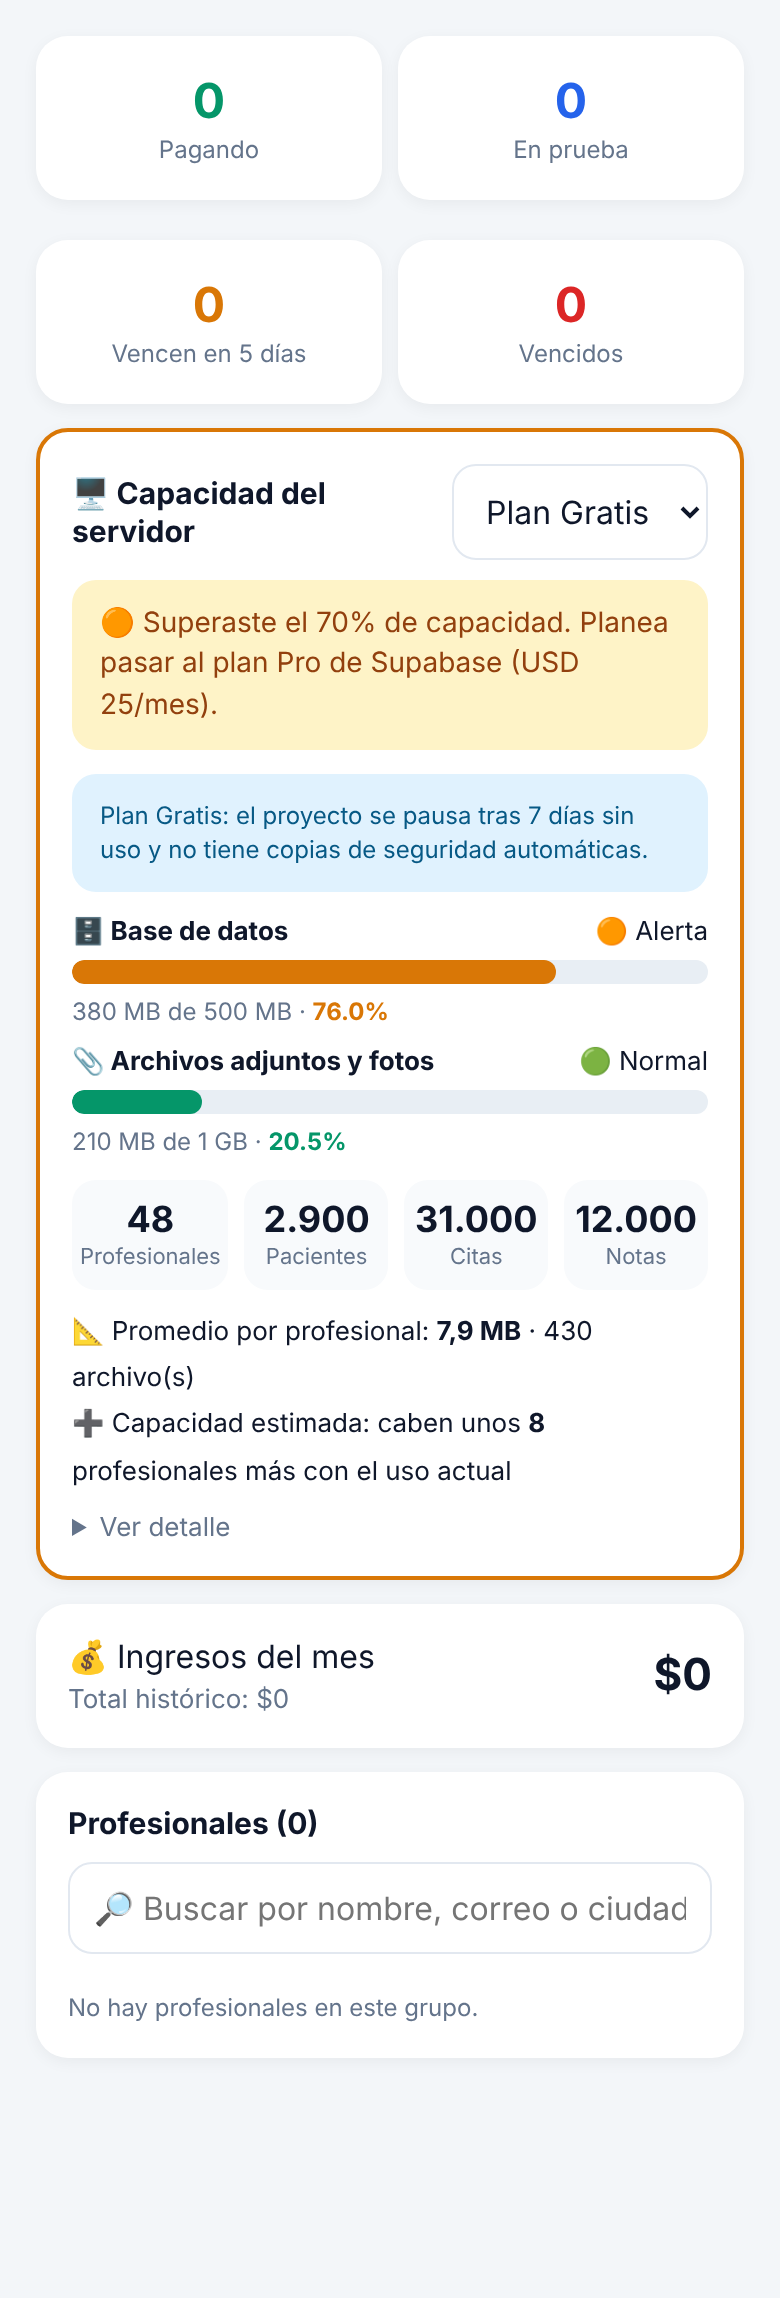
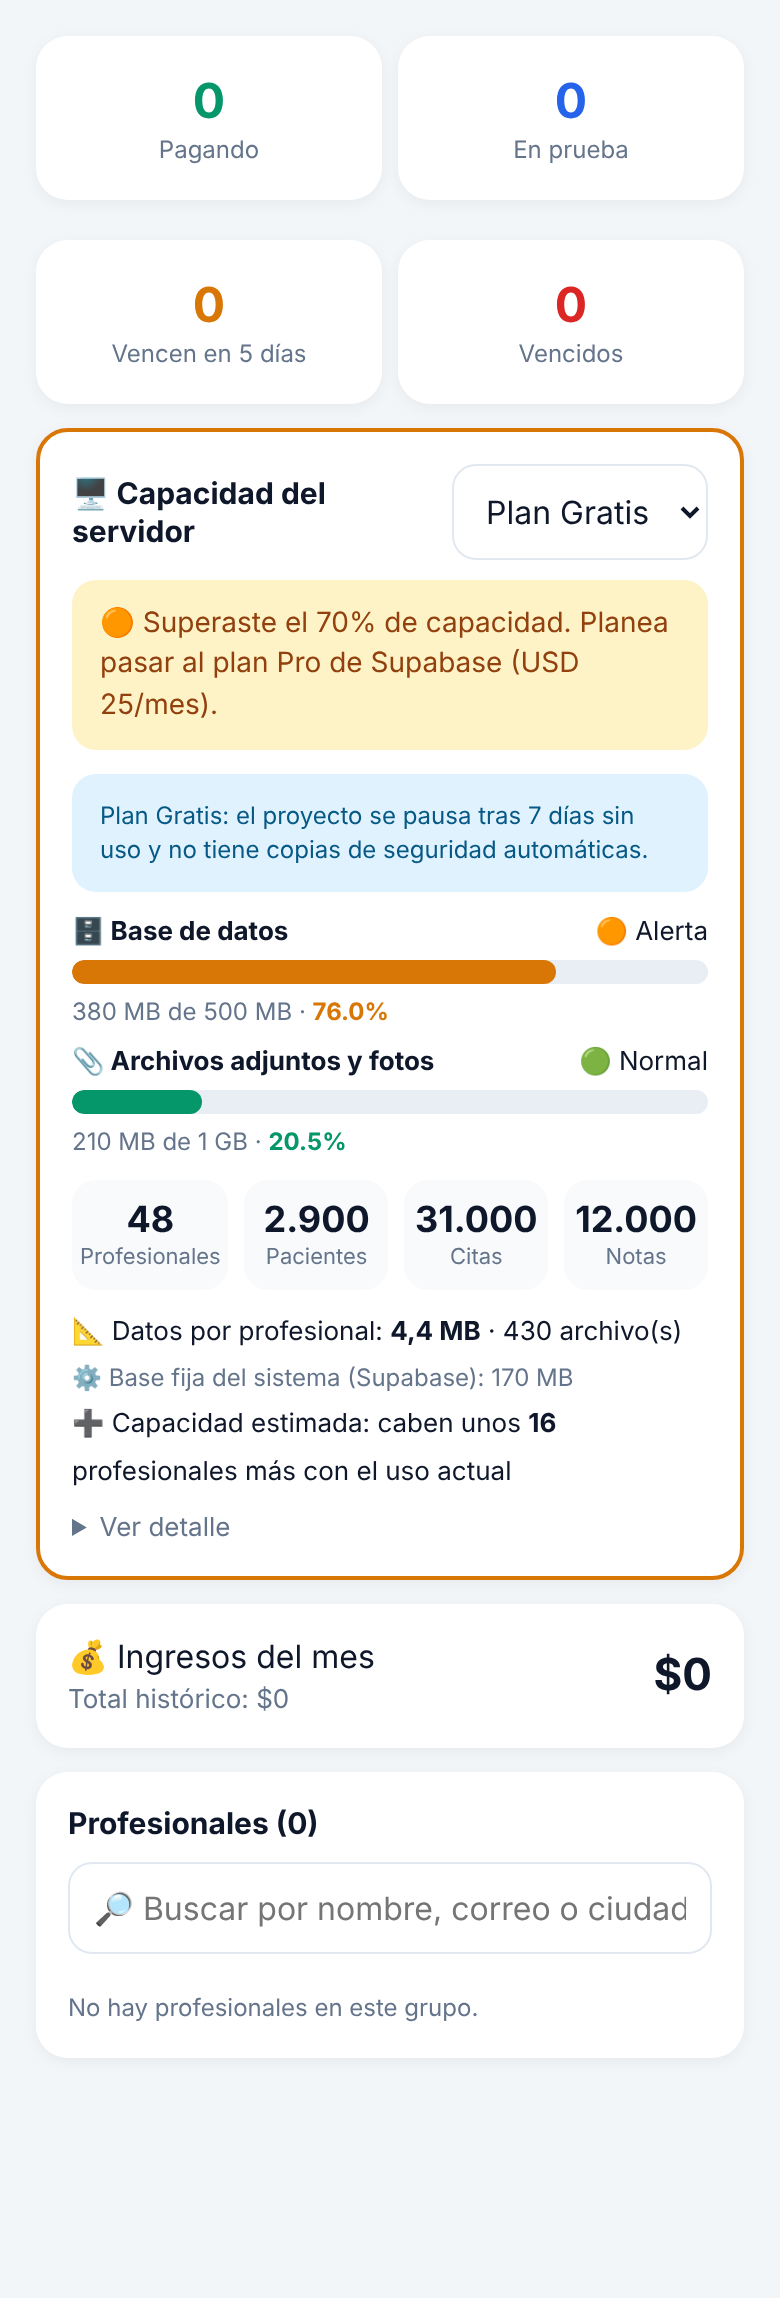
v3.20: estimación de capacidad separando la base fija del sistema
Claude-Session: https://claude.ai/code/session_01Qh1SwhbFfHFF1UKen829Rt

Changed region(s): [[0.3077, 0.5561, 0.8615, 0.6488], [0.0923, 0.5561, 0.2769, 0.6179], [0.2769, 0.587, 0.3077, 0.6179]]

diff --git a/index.html b/index.html
@@ -234,7 +234,7 @@ const SB_URL = 'https://sinxqgtdvoqjypgytrce.supabase.co';
 const SB_KEY = 'sb_publishable_zrc5qqxNfy9X_LUef2HU4Q_5WKGZZgD';
 const TZ = 'America/Bogota';
 const INACTIVIDAD_MIN = 15;
-const VERSION = '3.19';
+const VERSION = '3.20';
 
 const sb = supabase.createClient(SB_URL, SB_KEY, { auth: { persistSession: true, autoRefreshToken: true, detectSessionInUrl: true } });
 const app = document.getElementById('app');
@@ -2403,7 +2403,7 @@ function htmlCapacidad(){
   const pDb = c.db_bytes / L.db * 100, pAr = c.archivos_bytes / L.arch * 100, peor = Math.max(pDb, pAr);
   const col = p => p >= 90 ? '#dc2626' : p >= 70 ? '#d97706' : '#059669';
   const est = p => p >= 90 ? '🔴 Crítico' : p >= 70 ? '🟠 Alerta' : '🟢 Normal';
-  const porProf = c.profesionales ? c.db_bytes / c.profesionales : 0;
+  const datos = (c.tablas || []).reduce((a, t) => a + (+t.bytes || 0), 0), porProf = c.profesionales ? Math.max(datos / c.profesionales, 1048576) : 0;
   const caben = porProf ? Math.max(0, Math.floor((L.db * 0.9 - c.db_bytes) / porProf)) : null;
   const medidor = (t, u, lim, p) => `<div style="margin:10px 0"><div class="row" style="font-size:13px"><b class="grow">${t}</b><span>${est(p)}</span></div>
     <div style="height:12px;background:#e8eef4;border-radius:99px;overflow:hidden;margin:6px 0"><div style="height:100%;width:${Math.min(100, Math.max(1, p)).toFixed(1)}%;background:${col(p)};border-radius:99px"></div></div>
@@ -2415,7 +2415,7 @@ function htmlCapacidad(){
     ${c.plan !== 'pro' ? '<div class="aviso info" style="margin-top:10px;font-size:12px">Plan Gratis: el proyecto se pausa tras 7 días sin uso y no tiene copias de seguridad automáticas.</div>' : ''}
     ${medidor('🗄 Base de datos', c.db_bytes, L.db, pDb)}${medidor('📎 Archivos adjuntos y fotos', c.archivos_bytes, L.arch, pAr)}
     <div class="fin-pac" style="margin-top:12px"><div><b style="font-size:18px">${(+c.profesionales).toLocaleString('es-CO')}</b><span>Profesionales</span></div><div><b style="font-size:18px">${(+c.pacientes).toLocaleString('es-CO')}</b><span>Pacientes</span></div><div><b style="font-size:18px">${(+c.citas).toLocaleString('es-CO')}</b><span>Citas</span></div><div><b style="font-size:18px">${(+c.notas).toLocaleString('es-CO')}</b><span>Notas</span></div></div>
-    <div style="font-size:13px;line-height:1.8;margin-top:10px">📐 Promedio por profesional: <b>${tamanoCap(porProf)}</b> · ${c.archivos} archivo(s)${caben != null ? `<br>➕ Capacidad estimada: caben unos <b>${caben.toLocaleString('es-CO')}</b> profesionales más con el uso actual` : ''}</div>
+    <div style="font-size:13px;line-height:1.8;margin-top:10px">📐 Datos por profesional: <b>${tamanoCap(porProf)}</b> · ${c.archivos} archivo(s)<br><span class="sub" style="font-size:12px">⚙ Base fija del sistema (Supabase): ${tamanoCap(Math.max(0, c.db_bytes - datos))}</span>${caben != null ? `<br>➕ Capacidad estimada: caben unos <b>${caben.toLocaleString('es-CO')}</b> profesionales más con el uso actual${c.profesionales < 10 ? ' <span class="sub" style="font-size:12px">(estimado preliminar: se vuelve más preciso con más profesionales)</span>' : ''}` : ''}</div>
     <details style="margin-top:8px"><summary class="sub" style="cursor:pointer">Ver detalle</summary>
       <h4 style="margin:10px 0 4px">Tablas más pesadas</h4>${(c.tablas || []).map(t => `<div class="franja"><span>${esc(t.tabla)}</span><b>${tamanoCap(t.bytes)}</b></div>`).join('')}
       ${(c.top_archivos || []).length ? `<h4 style="margin:10px 0 4px">Quién usa más archivos</h4>${c.top_archivos.map(t => `<div class="franja"><span>${esc(t.nombre || t.email)} <small class="sub">(${t.n})</small></span><b>${tamanoCap(t.bytes)}</b></div>`).join('')}` : ''}

diff --git a/sw.js b/sw.js
@@ -1,6 +1,6 @@
 /* Consulta LV · service worker: siempre intenta la versión más nueva; sin internet usa la última guardada.
    Nunca guarda datos del servidor (Supabase) ni de otros sitios. */
-const CACHE = 'consulta-lv-v15';
+const CACHE = 'consulta-lv-v16';
 const BASE = ['./', './index.html', './supabase.js', './manifest.json', './icon-192.png', './icon-512.png'];
 self.addEventListener('install', e => { e.waitUntil(caches.open(CACHE).then(c => c.addAll(BASE)).then(() => self.skipWaiting())); });
 self.addEventListener('activate', e => { e.waitUntil(caches.keys().then(ks => Promise.all(ks.filter(k => k !== CACHE).map(k => caches.delete(k)))).then(() => self.clients.claim())); });
